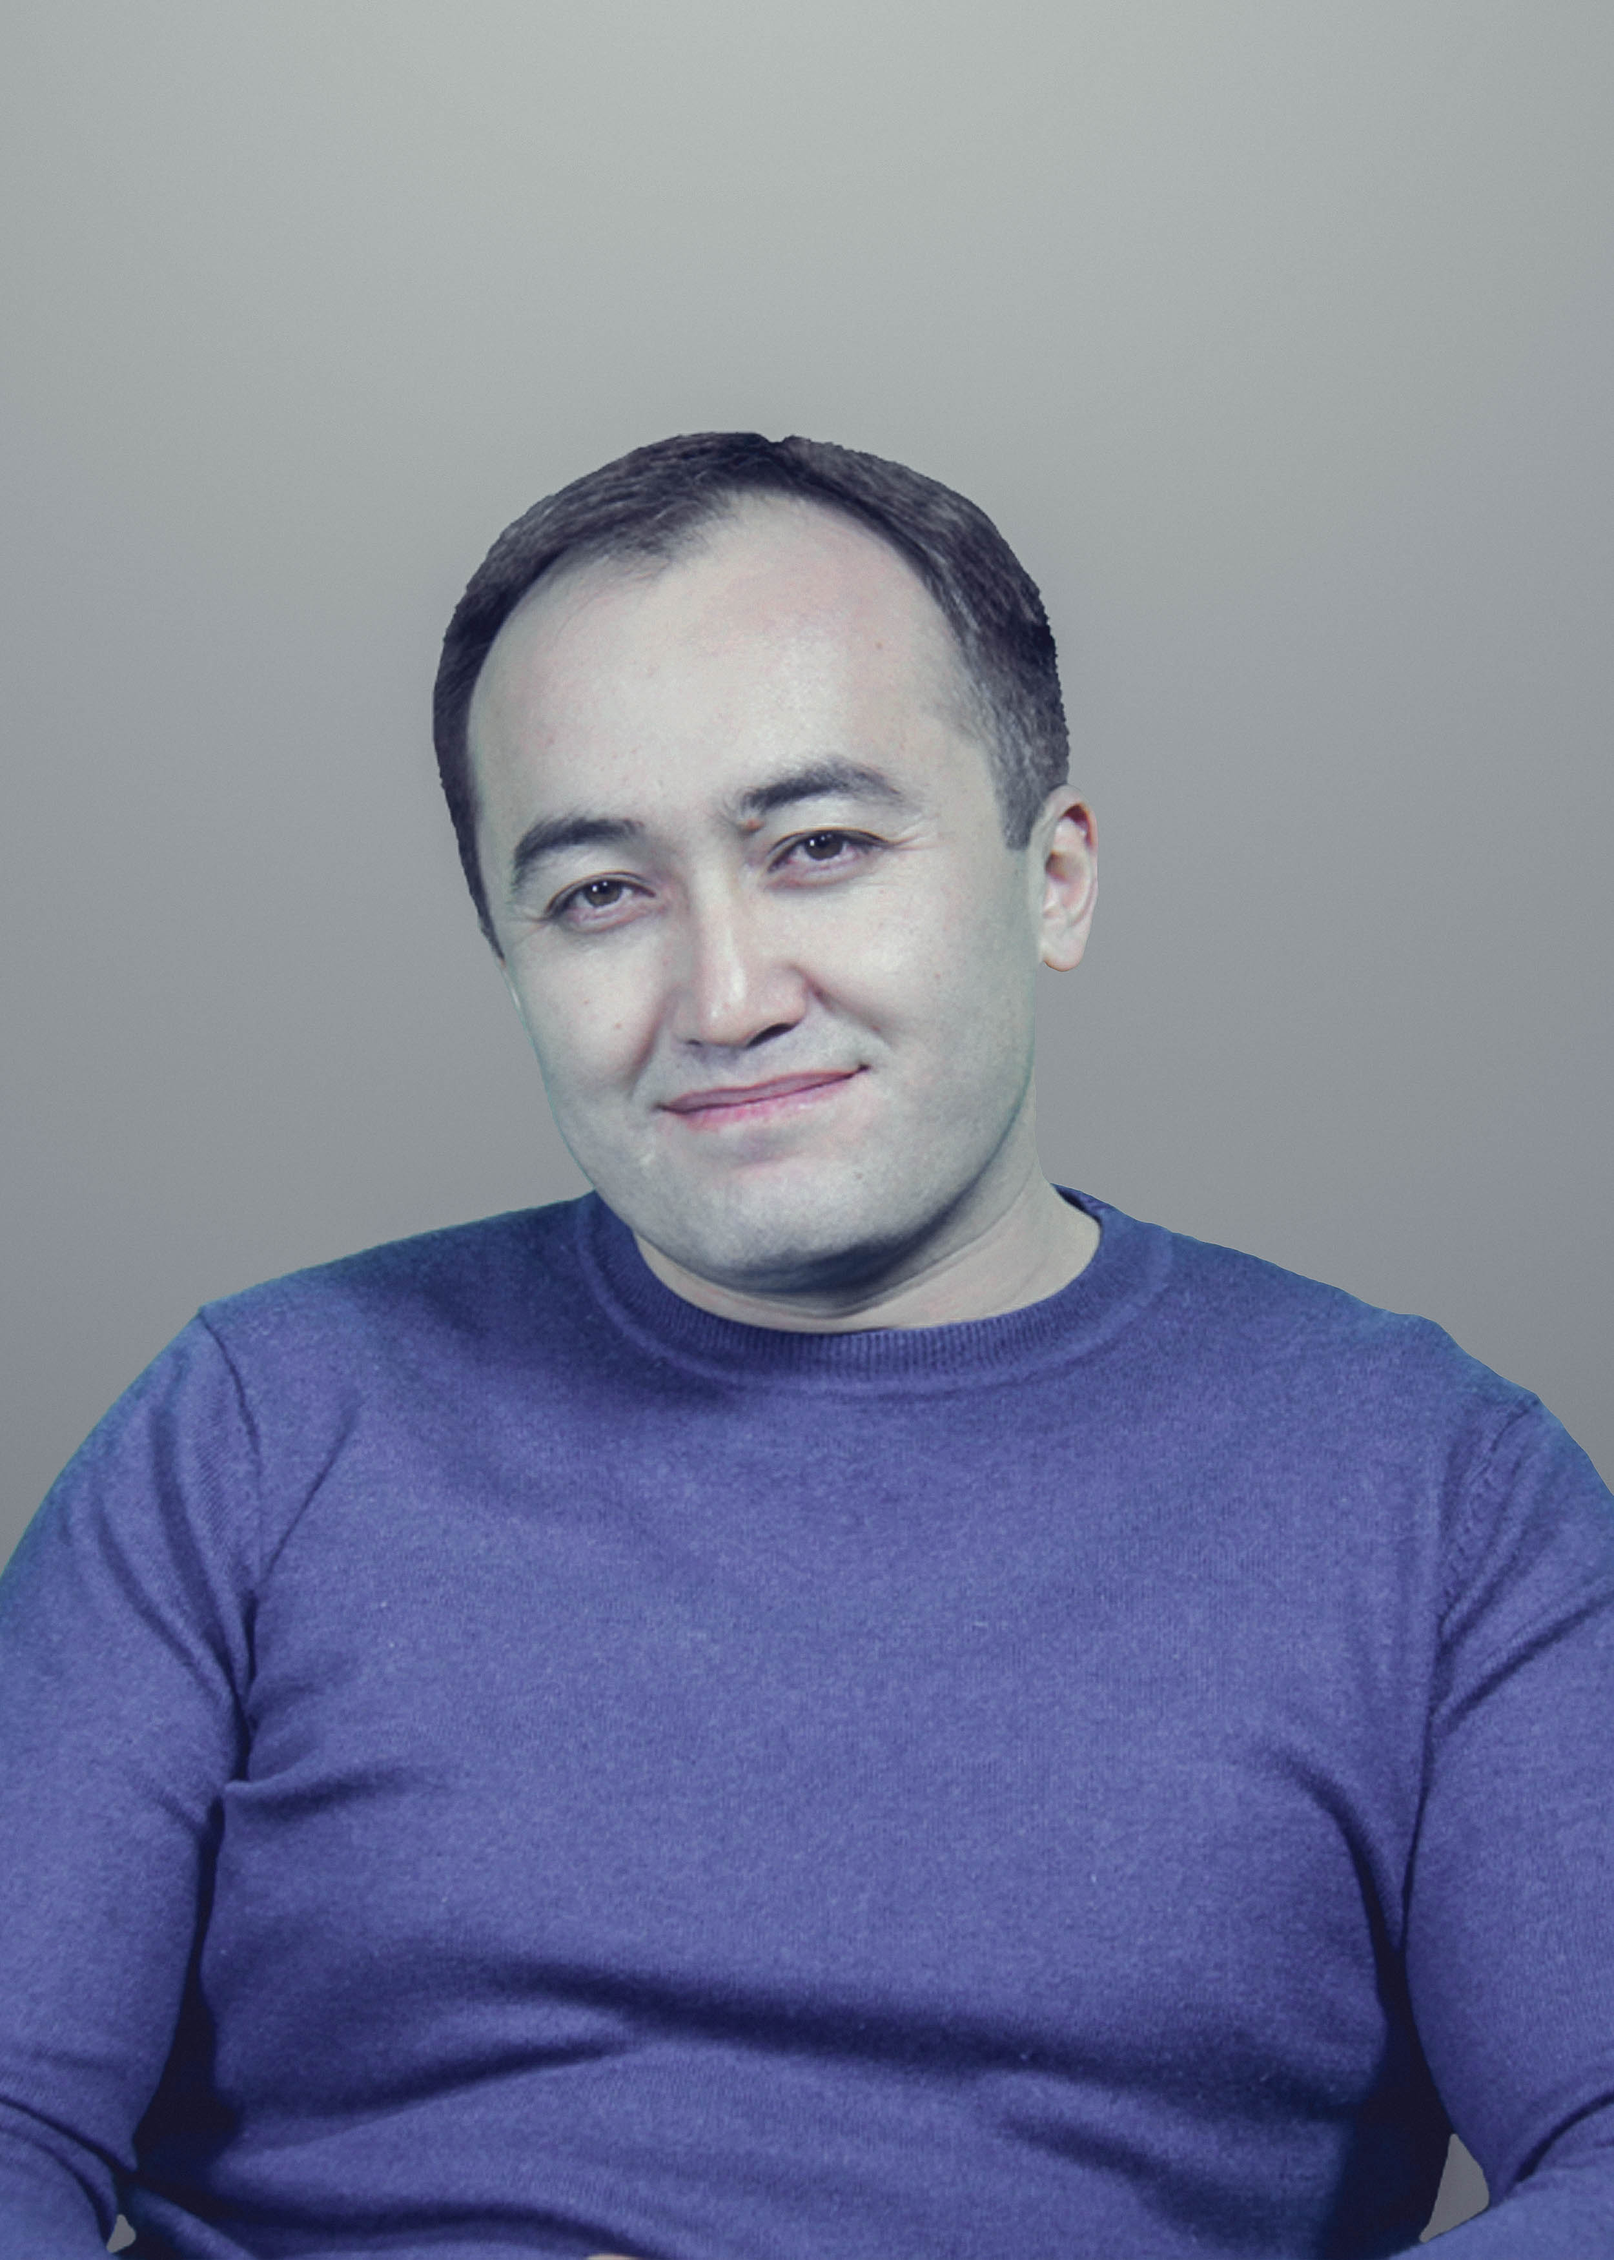
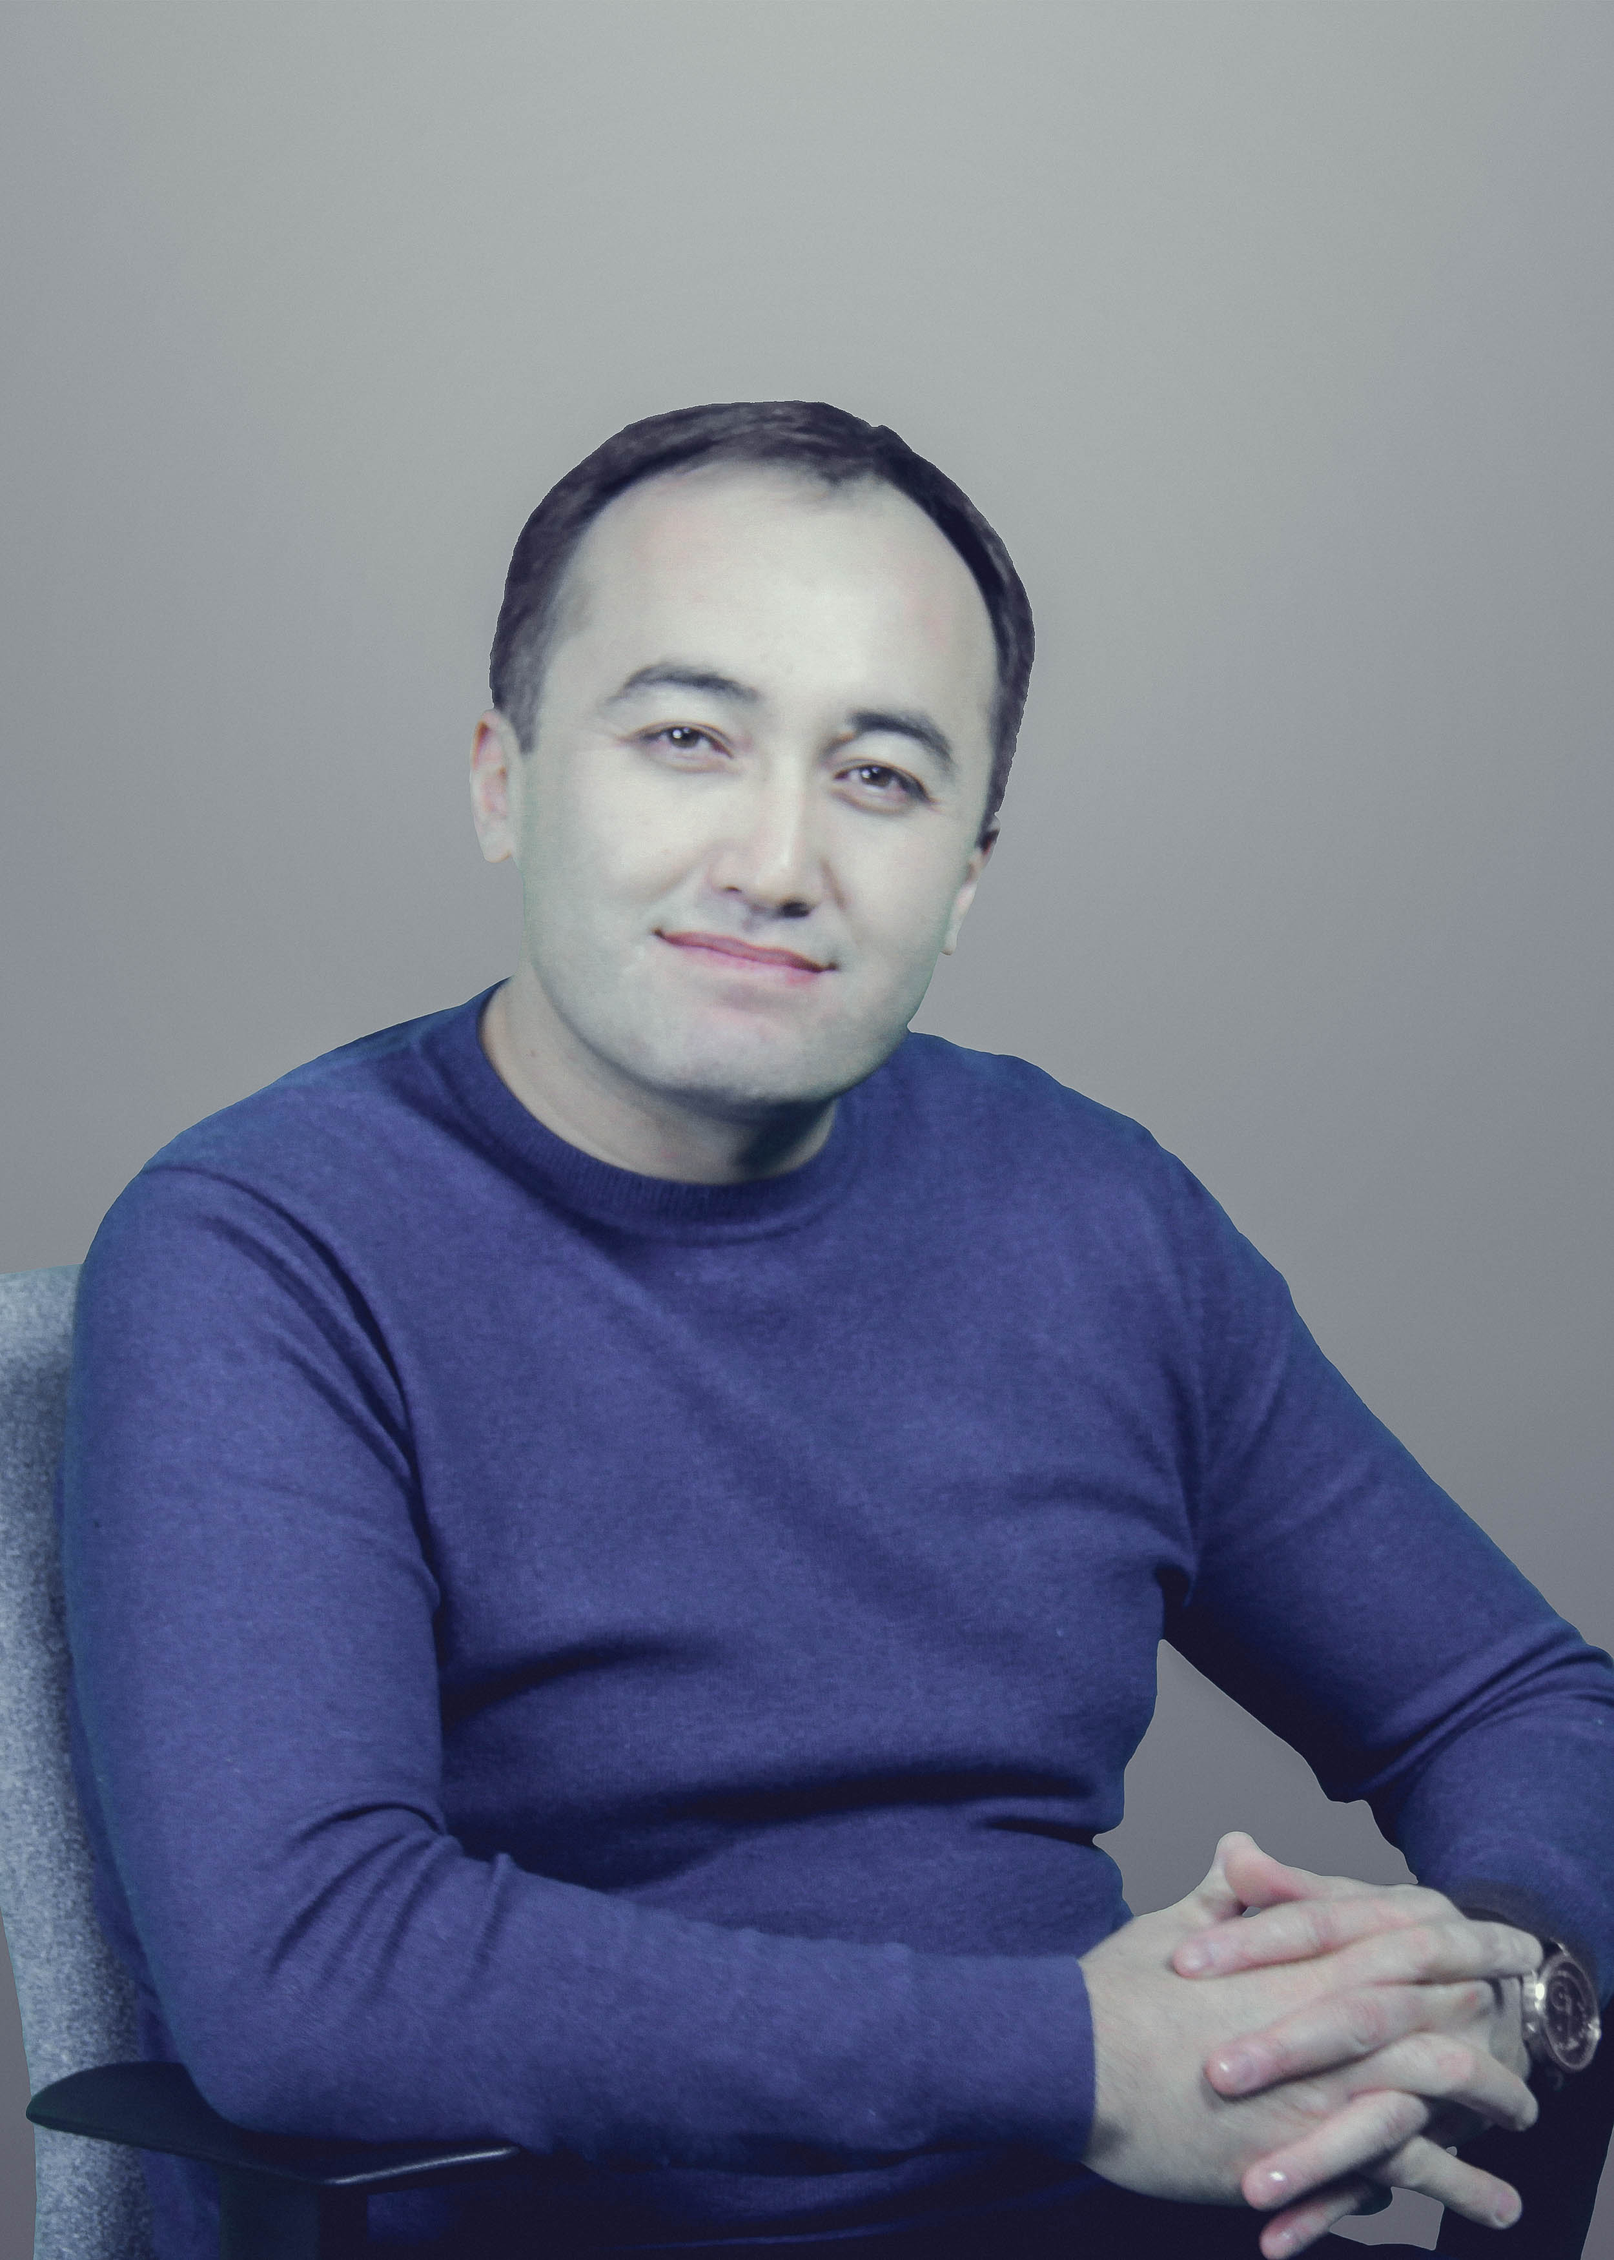
managers edited, ns

diff --git a/public/css/style2.css b/public/css/style2.css
@@ -1,7 +1,7 @@
 body{
     background: #eff3fa;
     /*background: url("../images/bg/ny_bg.png") repeat;*/
-    background: url("../images/bg/bg4.jpg") no-repeat;
+    background: url("../images/bg/bg3.jpg") no-repeat;
     /*background-repeat: repeat;*/
     -webkit-background-size: cover;
     background-size: cover;

diff --git a/app/Acme/Http/Front/Views/pages/leaders.blade.php b/app/Acme/Http/Front/Views/pages/leaders.blade.php
@@ -64,7 +64,12 @@
                       <div class="row">
                         <h4>Асылбашев Калыйбек Шаршеналиевич</h4>
                         <hr/>
-                        <h5>КТРКнын башкы директорунун телеберүүлөр боюнча орун басары</h5>
+                        @if($lc == 'kg')
+                          <h5>КТРКнын башкы директорунун телеберүүлөр боюнча орун басары</h5>
+                        @else
+                          <h5>Заместитель генерального директора КТРК КР по телевещанию</h5>
+                        @endif
+
                       </div>
                     </div>
                   </div>
@@ -81,7 +86,12 @@
                       <div class="row">
                         <h4>Иманалиев Кайрат Олжобаевич</h4>
                         <hr/>
-                        <h5>КТРКнын башкы директорунун радио уктуруулар боюнча орун басары</h5>
+                        @if($lc == 'kg')
+                          <h5>КТРКнын башкы директорунун радио уктуруулар боюнча орун басары</h5>
+                        @else
+                          <h5>Заместитель генерального директора КТРК КР по радио вещанию </h5>
+                        @endif
+
                       </div>
                     </div>
                   </div>
@@ -98,7 +108,11 @@
                       <div class="row">
                         <h4>Алиев Бактияр Жеңишбекович</h4>
                         <hr/>
-                        <h5>КТРКнын Республикалык радио телеборборунун директору</h5>
+                        @if($lc == 'kg')
+                          <h5>КТРКнын Республикалык радио телеборборунун директору</h5>
+                        @else
+                          <h5>Директор Республиканского радиотелецентра КТРК КР</h5>
+                        @endif
                       </div>
                     </div>
                   </div>
@@ -113,9 +127,13 @@
                     </div>
                     <div class="col-md-12 manager-info">
                       <div class="row">
-                        <h4>Асылбашев Калыйбек Шаршеналиевич</h4>
+                        <h4>Асанбек уулу Руслан</h4>
                         <hr/>
-                        <h5>КТРКнын башкы директорунун телеберүүлөр боюнча орун басары</h5>
+                        @if($lc == 'kg')
+                          <h5>КТРКнын аппарат жетекчиси</h5>
+                        @else
+                          <h5>Руководитель аппарата КТРК</h5>
+                        @endif
                       </div>
                     </div>
                   </div>
@@ -123,66 +141,6 @@
 
               </div><!-- end panel body-->
 
-              <div class="panel-body hidden">
-
-                <div class="col-md-12 directors">
-                  <div class="col-md-6">
-                    <div class="row">
-                      <img src="{{ asset('images/managers/1_2.jpg') }}" >
-                    </div>
-                  </div>
-                  <div class="col-md-6 director-info">
-                    <div class="row">
-                      <h4>Карыпбеков Илим Майрамбекович</h4>
-                      <h5>КТРКнын башкы директору</h5>
-                      <a href="{{ route('front.pages.director') }}" class="btn btn-default">Толук маалымат</a>
-                    </div>
-                  </div>
-                </div>
-
-                <div class="col-md-4 directors directors-small">
-                  <div class="col-md-12 director-thumb">
-                    <div class="row">
-                      <img src="{{ asset('images/managers/2.jpg') }}">
-                    </div>
-                  </div>
-                  <div class="col-md-6 director-info">
-                    <div class="row">
-                      <h4>Асылбашев Калыйбек Шаршеналиевич</h4>
-                      <h5>КТРКнын башкы директорунун телеберүүлөр боюнча орун басары</h5>
-                    </div>
-                  </div>
-                </div>
-
-                <div class="col-md-4 directors directors-small">
-                  <div class="col-md-12 director-thumb">
-                    <div class="row">
-                      <img src="{{ asset('images/managers/3.jpg') }}">
-                    </div>
-                  </div>
-                  <div class="col-md-6 director-info">
-                    <div class="row">
-                      <h4>Иманалиев Кайрат Олжобаевич</h4>
-                      <h5>КТРКнын башкы директорунун радио уктуруулар боюнча орун басары</h5>
-                    </div>
-                  </div>
-                </div>
-
-                <div class="col-md-4 directors directors-small">
-                  <div class="col-md-12 director-thumb">
-                    <div class="row">
-                      <img src="{{ asset('images/managers/manager_4.jpg') }}">
-                    </div>
-                  </div>
-                  <div class="col-md-6 director-info">
-                    <div class="row">
-                      <h4>Алиев Бактияр Жеңишбекович</h4>
-                      <h5>КТРКнын Республикалык радио телеборборунун директору</h5>
-                    </div>
-                  </div>
-                </div>
-
-              </div><!-- end panel body-->
             </div>
 
           </div>

diff --git a/app/Acme/Http/Front/Views/ns/team.blade.php b/app/Acme/Http/Front/Views/ns/team.blade.php
@@ -30,7 +30,7 @@
 
                       <div class="col-md-6 ns-team">
                         <div class="ns-photo">
-                          <img src="{{ asset('static/images/ns/abdy_satarov.jpg') }}" alt=""/>
+                          <img src="{{ asset('static/images/ns/ns_1.jpg') }}" alt=""/>
                         </div>
                         <div class="ns-info">
                           <span class="ns-name"><strong>Абды Сатаров</strong> / КТРКнын Байкоочу кеңешинин төрагасы </span>

diff --git a/app/Acme/Http/Front/Views/partials/banner.blade.php b/app/Acme/Http/Front/Views/partials/banner.blade.php
@@ -1,5 +1,5 @@
 <div class="clearfix">
 	<a href="@if(!empty($positionTop->linkTo)){{ $positionTop->linkTo }} @else # @endif" target="_blank" class="col-md-12 text-center ads top-ad">
-	    <img src="@if(!empty($positionTop->file)) {{ asset($positionTop->file) }} @else {{ asset('img/banner/1.jpeg') }} @endif" alt="phot1"/>
+	    <img src="@if(!empty($positionTop->file)) {{ asset($positionTop->file) }} @else {{ asset('img/banner/banner-sport.png') }} @endif" alt="phot1"/>
 	</a>
 </div>
